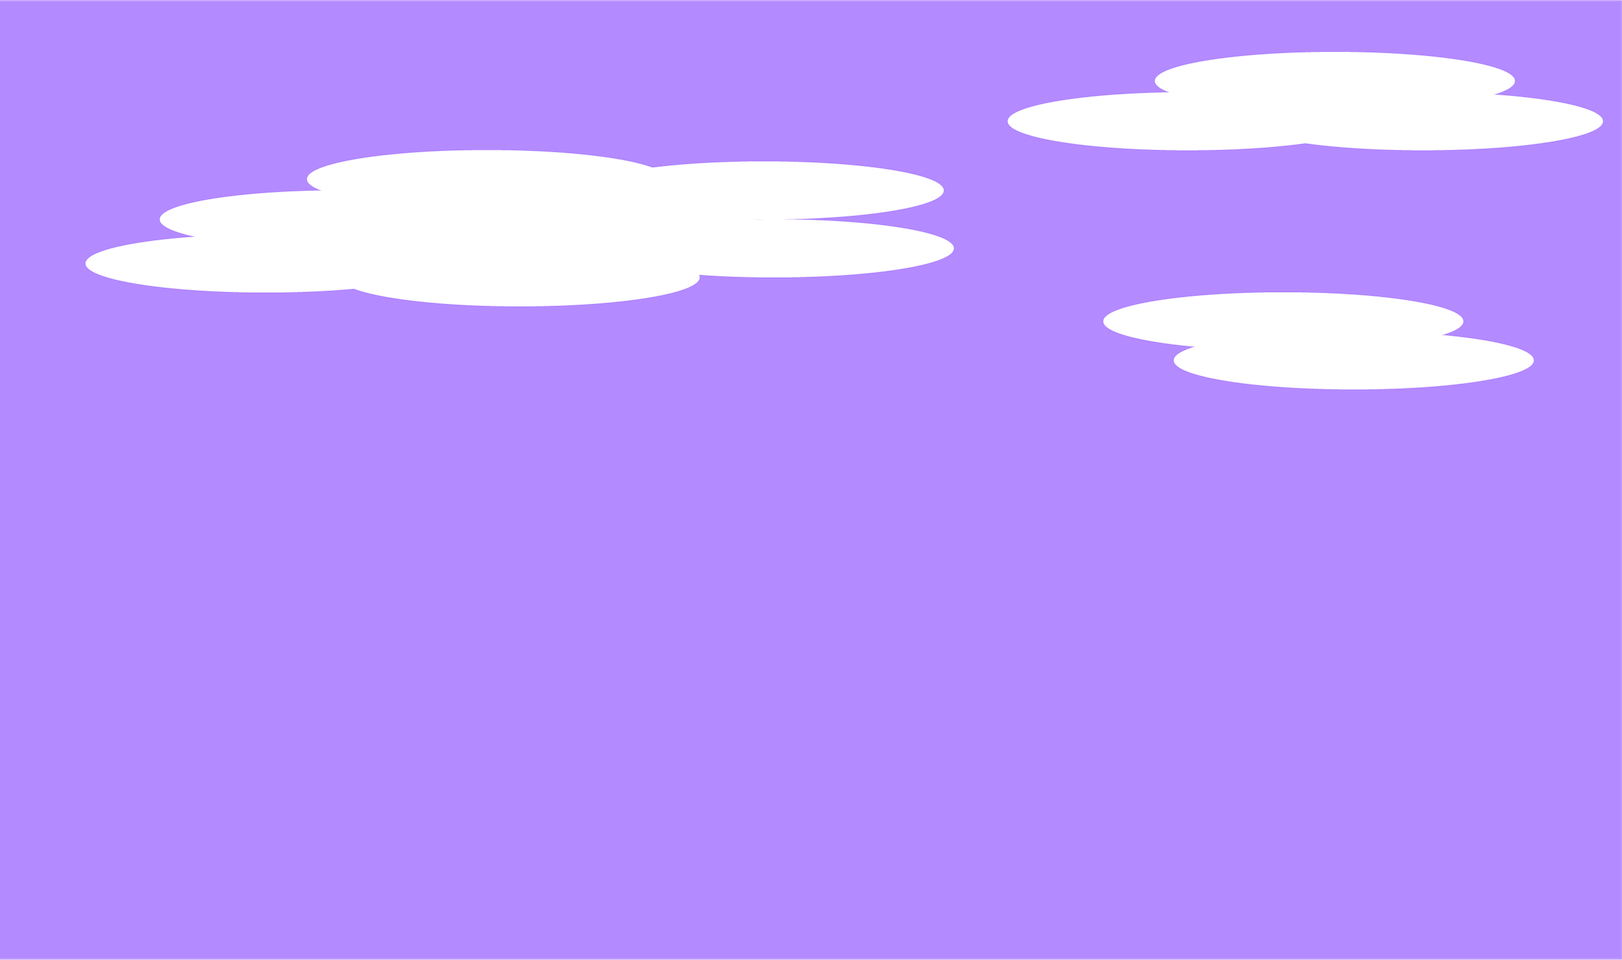
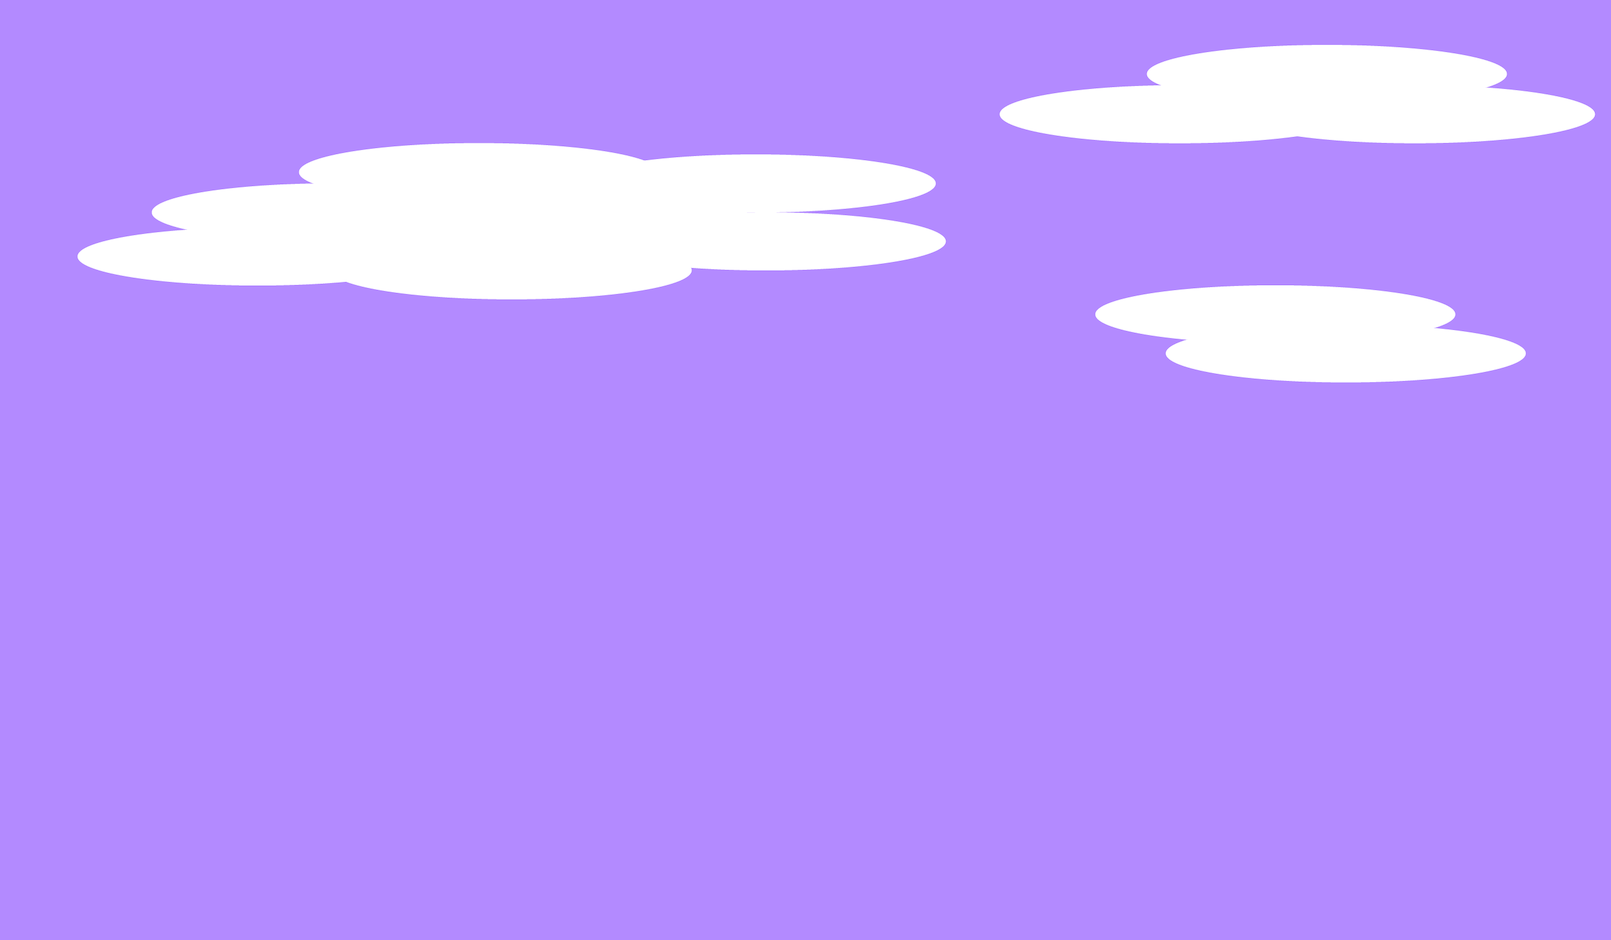
fixed background, added more sfx, added lighting

diff --git a/src/scenes/Play.js b/src/scenes/Play.js
@@ -15,11 +15,11 @@ class Play extends Phaser.Scene {
 
         //stops gameOverScene
         this.scene.stop('gameOverScene');
-        this.points= 0; //keep track of score
+        this.points= 0;                     //keep track of score
+        this.power= 0;                      //Power of jump
+        this.lifePoints= 3;                 //number of life points
+        this.gameOver= false;               //game state
 
-        this.power= 0;
-        this.lifePoints= 3;
-        this.gameOver= false;
         //create player avatar run animation
         this.anims.create({
              key: 'avatar_run',
@@ -46,21 +46,29 @@ class Play extends Phaser.Scene {
                end: 3,
            }), repeat: -1 });
         
+        
         //background as a tile sprite
-        this.background= this.add.tileSprite(w- 200, h, w*5, h*5, 'background').setOrigin(0.5);
+        this.background= this.add.tileSprite(w- 200, h, w*5, h*5 - 80, 'background').setOrigin(0.5);
+        //Enable lights and set a  ambient color
+        this.lights.enable()
+        this.lights.setAmbientColor(0xFFFFFF);
+        this.background.setPipeline('Light2D'); //make light take effect on background only
+        //add spotlight/sun 
+        this.lights.addLight(880, 60, 600).setIntensity(1.5);
+
         //screen UI
         this.add.rectangle(0,0,game.config.width*2,120, 0xb380ff).setOrigin(0.5);
         this.add.rectangle(game.config.width*2 - 200, 0, game.config.width*2,120, 0xb38fff ).setOrigin(0.5);
-        this.lifePointsDisplay= this.add.text(game.config.width - 160, 30, this.lifePoints, { fontFamily: 'impact', fontSize: 40, color: 'Navy' }).setOrigin(0.5);
-        this.pointsDisplay= this.add.text(game.config.width - 240, 30, this.points, { fontFamily: 'impact', fontSize: 40, color: 'Navy' }).setOrigin(0.5);
+        this.lifePointsDisplay= this.add.text(game.config.width - 160, 30, this.lifePoints, { fontFamily: 'impact', fontSize: 40, color: 'Navy' , strokeThickness: 3}).setOrigin(0.5);
+        this.pointsDisplay= this.add.text(game.config.width - 240, 30, this.points, { fontFamily: 'impact', fontSize: 40, color: 'Navy' , strokeThickness: 3}).setOrigin(0.5);
 
         //build player sprite
         this.avatar= this.physics.add.sprite(200,500, "avatar").play('avatar_run');
         this.avatar.displayHeight= 100;
         this.avatar.displayWidth= 50;
         this.avatar.setGravity(0, 4000);
-        //this.avatar.setCollideWorldBounds();
         this.onGround= false;
+
         //build platform sprite
         this.ground= this.physics.add.sprite(w*.15, h*.99, "platform", );
         this.ground.displayWidth= w * 1.75;
@@ -80,6 +88,7 @@ class Play extends Phaser.Scene {
 
         //set collider
         this.physics.add.collider(this.avatar, this.ground);
+
         //call jump when space key is pressed
         this.jumpStart= cursors.space.on( "down", this.startJump, this);
         this.jumpEnd= cursors.space.on( "up", this.endJump, this);
@@ -96,8 +105,16 @@ class Play extends Phaser.Scene {
         //set avatar velocity to 0 every frame, so it is not knocked off the platform by world physics
         this.avatar.setVelocityX(0);
         //update health points display and points display
-        this.lifePointsDisplay.setText(this.lifePoints);
+        if (this.lifePoints > 1){
+            this.lifePointsDisplay.setText(this.lifePoints);
+        }else{
+            this.lifePointsDisplay.setText(this.lifePoints)
+            this.lifePointsDisplay.style.color= 'red';
+            this.lights.setAmbientColor(0x0b380ff);
+            this.bgm.setRate(1.05);
+        }
         this.pointsDisplay.setText(this.points);
+
         //check if player lost all lives
         if (this.lifePoints <= 0){
             this.gameOver= true;
@@ -138,7 +155,7 @@ class Play extends Phaser.Scene {
     //source: https://www.youtube.com/watch?v=fQiUlWlQjYU&t=14s
     //start the jump, start timer that calls tick
     startJump(){
-        console.log("startJump");
+        //console.log("startJump");
         this.timer= this.time.addEvent({
             delay: 7, 
             callback: this.tick,
@@ -148,7 +165,7 @@ class Play extends Phaser.Scene {
     }
     //removes timer and performs jump
     endJump(){
-        console.log("endJump");
+        //console.log("endJump");
         this.timer.remove();
         if (this.onGround){
             this.avatar.setVelocityY(-this.power * 150 );

diff --git a/src/scenes/Title.js b/src/scenes/Title.js
@@ -9,11 +9,11 @@ class Title extends Phaser.Scene {
         //background color
         this.cameras.main.setBackgroundColor('0xb38fff');
         // add title screen text
-        const title = this.add.text(centerX, centerY - textSpacer, 'Doodle Runner', { fontFamily: 'Impact', fontSize: 130, color: 'Navy' }).setOrigin(0.5);
-        const author = this.add.text(centerX, centerY, 'by Tony Guizar', { fontFamily: 'Georgia', fontSize: 30, color: 'white' }).setOrigin(0.5);
+        this.add.text(centerX, centerY - textSpacer, 'Spike Ball Runner', { fontFamily: 'Impact', fontSize: 130, color: 'Navy' , strokeThickness: 4}).setOrigin(0.5);
+        this.add.text(centerX, centerY, 'Game and Assets by Tony Guizar', { fontFamily: 'Georgia', fontSize: 20, color: 'white'}).setOrigin(0.5);
         // add game instructions
-        const subtitle = this.add.text(centerX, centerY + textSpacer*1.7, 'Quick press or long press [SPACE] key to jump', { fontFamily: 'Georgia', fontSize: 40, color: 'darkblue' }).setOrigin(0.5);
-        const subtitle2 = this.add.text(centerX, centerY + textSpacer*2.5, 'Press [SHIFT] key to Start', { fontFamily: 'Georgia', fontSize: 40, color: 'darkblue' }).setOrigin(0.5);
+        this.add.text(centerX, centerY + textSpacer*1.7, 'Quick press or long press [SPACE] key to jump', { fontFamily: 'Georgia', fontSize: 40, color: 'darkblue' }).setOrigin(0.5);
+        this.add.text(centerX, centerY + textSpacer*2.5, 'Press [SHIFT] key to Start', { fontFamily: 'Georgia', fontSize: 40, color: 'darkblue' }).setOrigin(0.5);
         
         // set up cursor keys
         cursors = this.input.keyboard.createCursorKeys();  
@@ -23,6 +23,7 @@ class Title extends Phaser.Scene {
         // check for SHIFT input
         if (Phaser.Input.Keyboard.JustDown(cursors.shift)) {
             // start next scene
+            this.sound.play('menuSelect');
             this.scene.start('playScene');
         }
     }

diff --git a/src/scenes/GameOver.js b/src/scenes/GameOver.js
@@ -4,13 +4,13 @@ class GameOver extends Phaser.Scene {
     }
 
     create(){
-        //this.cameras.main.setBackgroundColor('0x985bde');
-        this.gameOverText = this.add.text(game.config.width/2,game.config.height/3, 'GAME OVER',{
+            this.gameOverText = this.add.text(game.config.width/2,game.config.height/3, 'GAME OVER',{
             fontFamily: 'Georgia',
             fontSize: 120,
-            color: 'Navy'
+            color: 'Navy',
+            strokeThickness: 4
         }).setOrigin(0.5);
-        this.subText = this.add.text(game.config.width/2,game.config.height - 300, 'Press [SHIFT] to play again, [SPACE] to quit',{
+        this.subText = this.add.text(game.config.width/2,game.config.height - 300, 'Press [LEFT] to play again, [RIGHT] to quit',{
             fontFamily: 'Georgia',
             fontSize: 30,
             color: 'darkpurple',
@@ -19,17 +19,20 @@ class GameOver extends Phaser.Scene {
 
     update() {
         // check for SHIFT input
-        if (Phaser.Input.Keyboard.JustDown(cursors.shift)) {
-            // start next scene
+        if (Phaser.Input.Keyboard.JustDown(cursors.left)) {
+            // restart game
             this.bgm.stop();
+            this.sound.play('menuSelect');
             this.scene.start('playScene');
-        }else if(Phaser.Input.Keyboard.JustDown(cursors.space)){
+        }else if(Phaser.Input.Keyboard.JustDown(cursors.right)){
+            //quit game
             this.bgm.stop();
+            this.sound.play('menuSelect');
             this.scene.stop('playScene');
             this.scene.start('titleScene');
         }
     }
-
+    //catch bgm as passed argument
     init(data){
         this.bgm= data;
     }

diff --git a/src/main.js b/src/main.js
@@ -1,5 +1,10 @@
 // Antonio Guizar Orozco
-// Endless Runner
+// Spike Ball Runner v1.1
+// Hours Spent: 13
+// Creative Tilt: I implemented the use of phaser's light ability to simulate a sun. This took a bit of trial and error to get right. I also made it
+//                so that, when the player gets to low health, the ambiance chnages and the score display turns red. I also made my own artwork 
+//                and animations. I am not an artist by any means, so getting something like this to work is a great accomplishment and I am pround 
+//                to have made this from scratch. 
 
 'use strict';
 

diff --git a/src/scenes/Load.js b/src/scenes/Load.js
@@ -26,7 +26,8 @@ class Load extends Phaser.Scene {
         this.load.audio('groove', 'audio/groove.mp3');
         this.load.audio('pickup', 'audio/pickup.wav');
         this.load.audio('pickup2', 'audio/pickup2.wav'); 
-        this.load.audio('thud', 'audio/thud.mp3');       
+        this.load.audio('thud', 'audio/thud.mp3');
+        this.load.audio('menuSelect', 'audio/menuSelect.wav');       
     }
 
     create() {

diff --git a/index.html b/index.html
@@ -3,7 +3,7 @@
 <head>
     <meta charset="UTF-8">
     <meta name="viewport" content="width=device-width, initial-scale=1.0">
-    <title>Paddle Parkour P3</title>
+    <title>Spike Ball Runner</title>
     <script type="text/javascript" src="./lib/phaser.js"></script>
     <script type="text/javascript" src="./src/prefabs/spikeBall.js"></script>
     <script type="text/javascript" src="./src/scenes/Load.js"></script>
